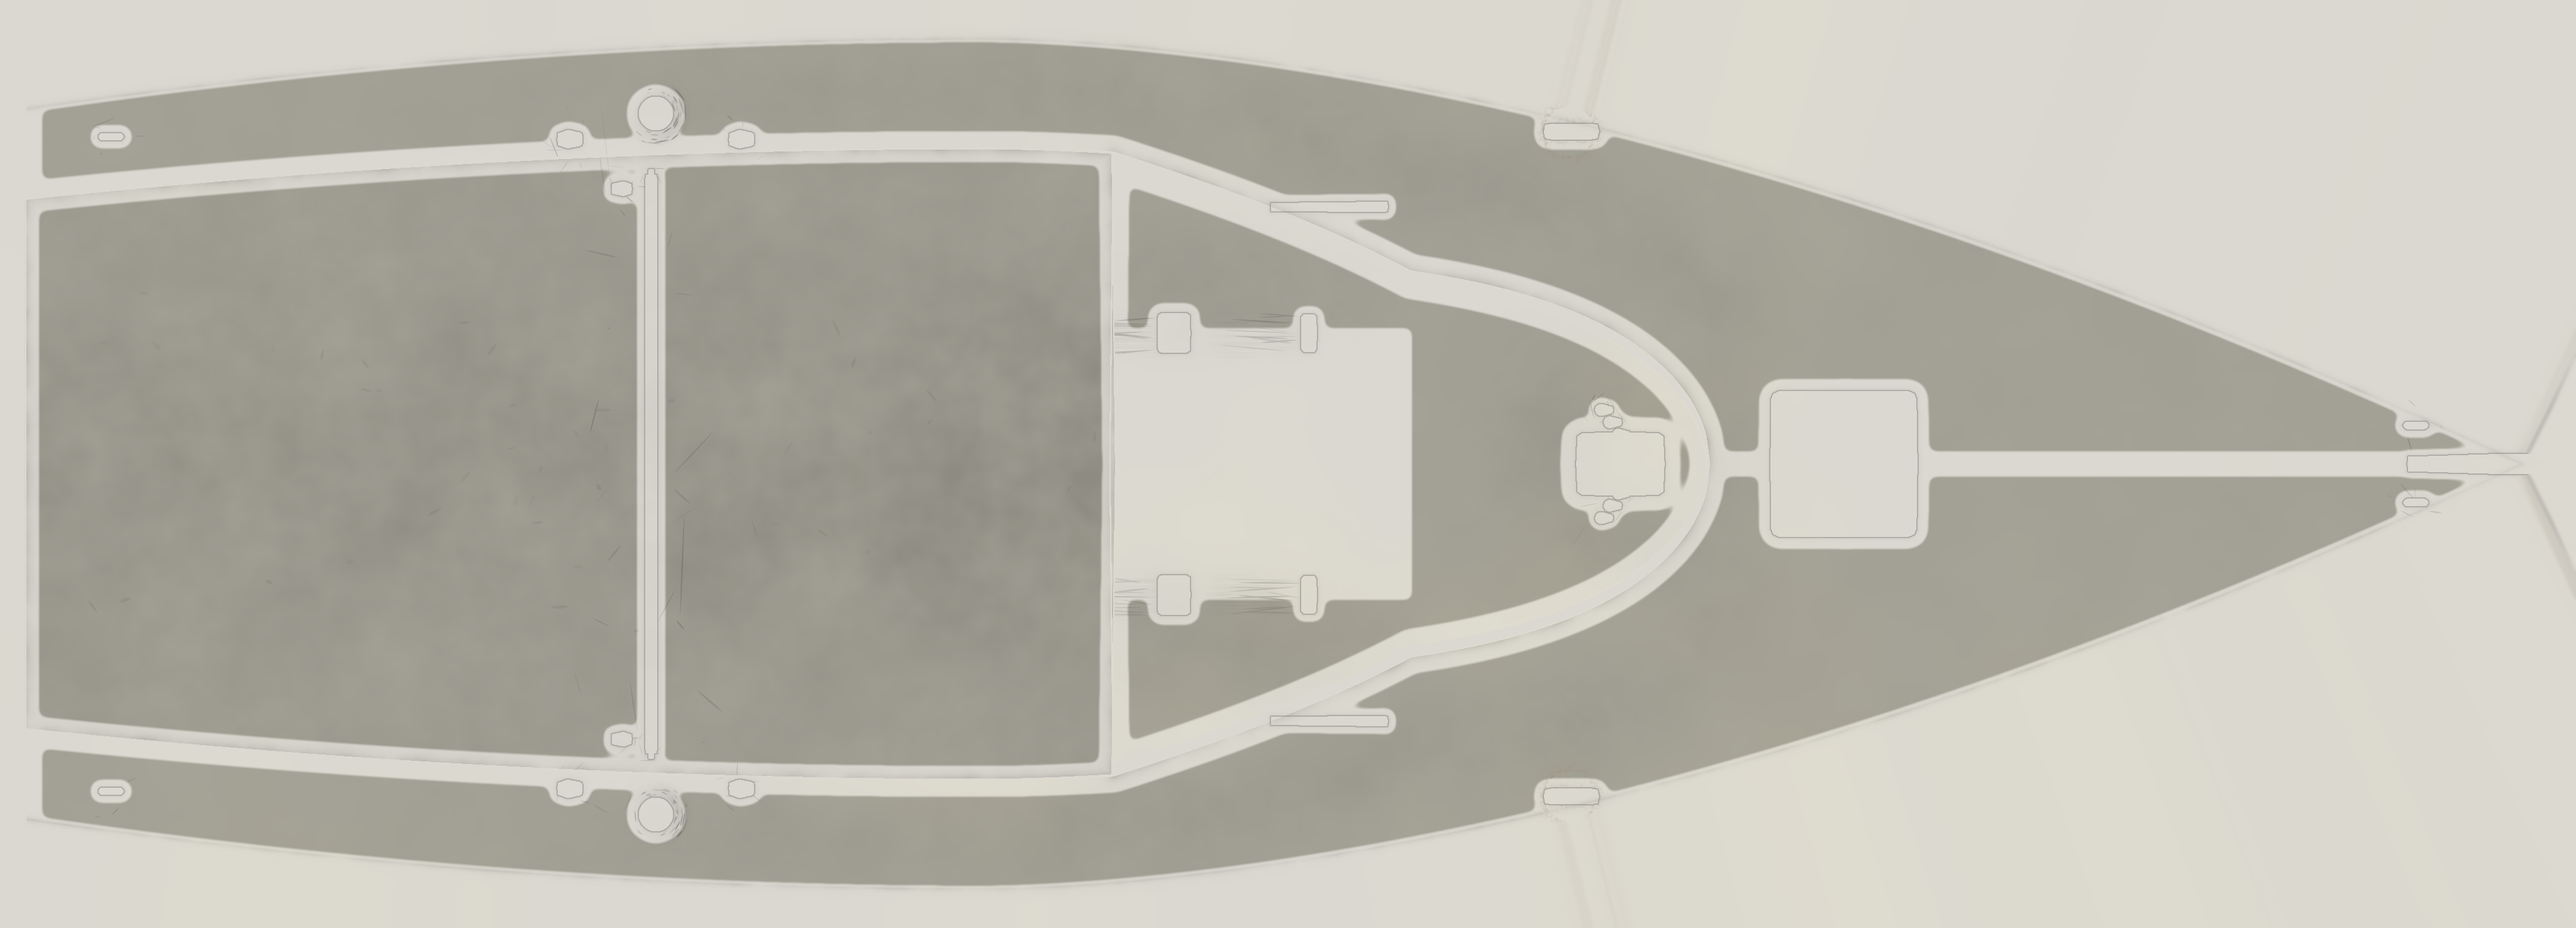
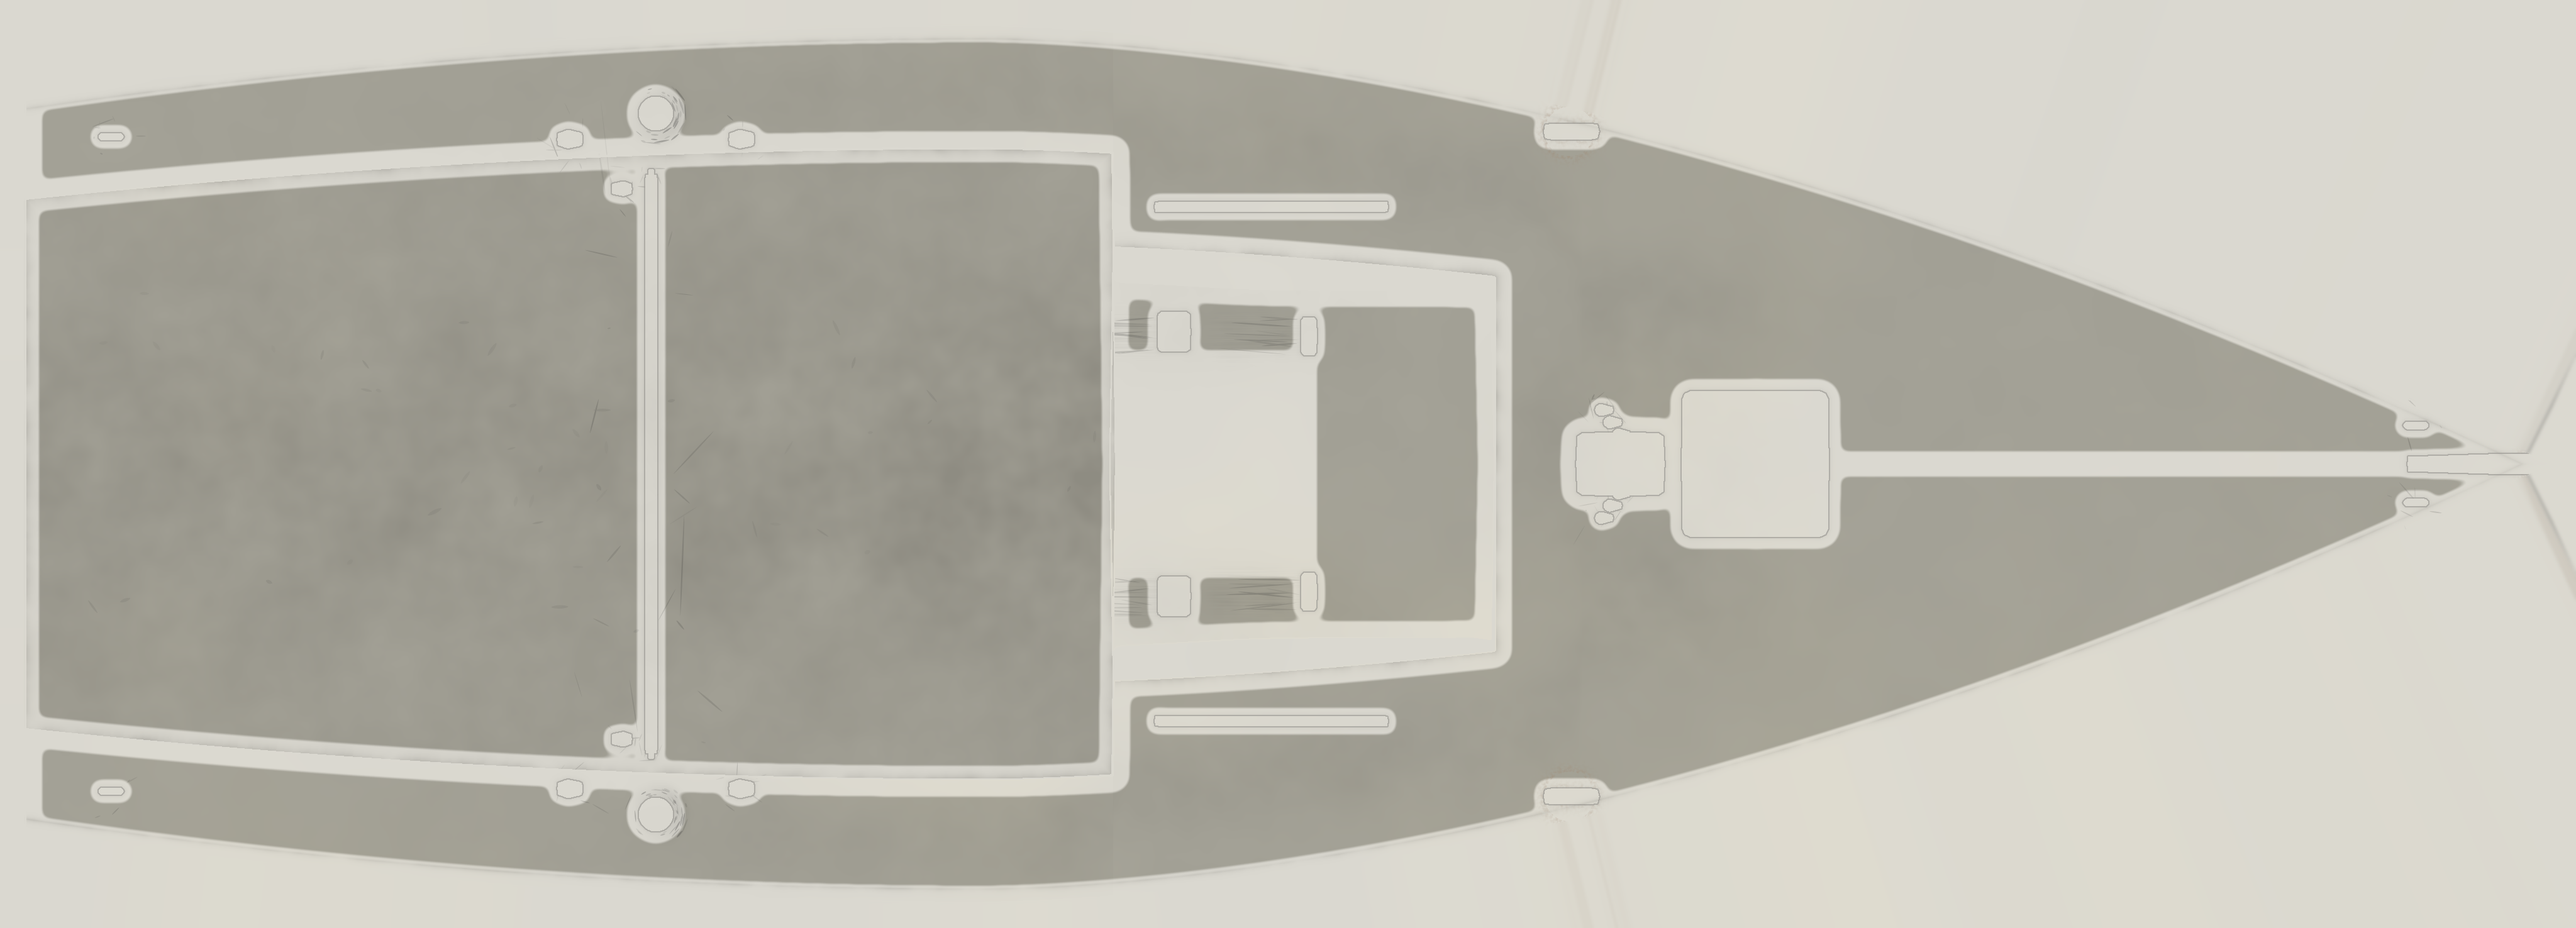
[data] Boats regenerated, navy deck sets rebaked for the coachroof

Changed region(s): [[0.4375, 0.1558, 0.75, 0.8415]]

diff --git a/tools/boatgen/README.md b/tools/boatgen/README.md
@@ -175,7 +175,7 @@ Every key is optional; defaults scale with LOA.
 | `hull.lcb_fraction` | 0.535 | LCB target when `hull.lcb_x` is absent |
 | `hull.chine_start` | 0.42 | where a hard chine begins, fraction of LOA aft of the stem |
 | `deck.cockpit` | length 0.30 LOA, width 0.62, depth 0.42 (LOA/12)^0.5, open_transom true, aft_deck 0 | cockpit well: width as a fraction of the local half-beam |
-| `deck.cabin` | length 0.28 LOA, height 0.26 (LOA/12)^0.6, width 0.58, side_slope 0.22, windows true | coachroof; `null` for a flush deck |
+| `deck.cabin` | height 0.26 (LOA/12)^0.6, meet_aft_of_mast 0.05 (LOA/12)^0.5, slope_from 0.3, width 0.58, side_rake 0.35, edge_radius 0.05 (LOA/12)^0.5, windows true | the coachroof (`docs/specs/data_format.md` §3.7.2: height aft, where the top meets the deck, where it starts to slope, base width, side rake, edge radius; `length` instead of `meet_aft_of_mast`); `null` for a flush deck |
 | `deck.nonslip_margin` | 0.05 | smooth gelcoat border around non-slip panels (m) |
 | `deck.toe_rail` | 0.035 (LOA/12)^0.4 | toe-rail size (m) |
 | `deck.lifelines` | LOA >= 9 m | stanchions, lifelines, pulpit and pushpit |
@@ -215,9 +215,16 @@ canoe-body volume (DWL mass over water density, minus the meshed appendages), an
 to Cp and LCB with a 2 x 2 Newton step. LWL and Tc are exact by construction.
 
 **Deck** (`deck.py`). A cambered surface between the sheer lines, meshed as two strips from the sheer in to the
-cockpit and cabin outline, with gelcoat margins around non-slip panels. The cockpit is a well running aft to an
-open transom; the cabin top rounds in to the centreline at its front, with leaning sides, a filleted roof edge,
-side windows, companionway and sliding hatch. The transom face, toe rail and rub strake close it off.
+cockpit and coachroof base, with gelcoat margins around non-slip panels. The cockpit is a well running aft to an
+open transom. The coachroof (`data_format.md` §3.7.2) is a height field over the deck in the style of a modern
+cruiser-racer: low, level over the companionway, then sloping down forward along a half cosine until it meets the
+deck tangentially just aft of the mast; per station a section of a fillet at the foot, a side raked inward, an edge
+radius and the cambered top, all shrinking with the height, so there is no front face; in plan its sides follow the
+sheer and round in to the centreline over the last fifth. It is meshed on the deck's stations from base to base, so
+the deck strips and it share their edge. Only the aft face is upright, with the companionway; the sliding hatch is a
+low lid draped on the top, and slim side windows run where the top is at least 0.15 m high. The transom face, toe
+rail and rub strake close it off. `Deck.surface` and `Deck.surface_z` give the walking surface (the coachroof with
+its sides, the cockpit floor, the deck) that the hardware and the rope leads sit on.
 
 **Appendages** (`appendages.py`). NACA 00xx fin and rudder lofted from root to tip; the bulb is a flattened body
 of revolution sized so its volume holds the bulb mass in lead.
@@ -240,10 +247,18 @@ base plate, deck organisers, turning blocks on padeyes, blocks with cheeks, shea
 stops, cars with a lead block and plunger, cam cleats with fairleads, horn cleats, hatches with frame, lens,
 hinges and handles, stanchions, bent-tube pulpit and pushpit, the wheel with its grip and a pedestal guard with
 an instrument pod, gudgeons or the rudder bearing cap, rigging screws. Placement: primaries beside the cockpit,
-halyard winches (wm12), clutches and organisers on the cabin top, the halyards themselves from their exits low
-on the mast through the turning blocks at the mast foot, the organisers and the clutches to flaked tails, jib
-tracks under the clew, the traveller under the boom end with its control lines and a four-part mainsheet with its
-tail, cleats at bow and quarters, lifelines at about 2 m spacing.
+halyard winches (wm12), clutches and organisers on the coachroof clear of the sliding hatch, flush hatches bent
+to the top's slope and crown (`on_surface(..., conform=True)`), the halyards themselves from their exits low on the
+mast round the sheave of their turning block at the mast foot, then along the deck and up the sloping top lying on
+it (`hardware.lead_path`: a span between two surface points follows the surface 2 mm above it, a span to a fitting
+runs straight and never dips into it), through the organiser at its sheave height and the clutch's jaws, to tails
+flaked on the top (wm12) or over the top's aft edge and down its aft face into the cockpit (wm7); jib tracks under
+the clew, outboard of the coachroof's foot, the traveller under the boom end with its control lines and a
+four-part mainsheet with its tail, cleats at bow and quarters. Lifelines as on a real boat of the size: the
+pushpit wraps the quarters to 0.9 s forward of the transom, the pulpit's aft legs stand 1.3 s aft of the stem, the
+stanchions only between them, evenly at most 2.1 m apart (OSR 3.14: 2.2 m), raked slightly outboard; the end legs
+of the pushpit and pulpit stand in the stanchions' line, and both tiers run fitting to fitting (upper through the
+tops, lower through the eyes at 0.55 of the height).
 
 **Rig fittings** (`rig.py`). Mast step plate, gooseneck bracket and pin, vang tang and boom bail, halyard sheave
 boxes, masthead crane with sheaves, wind wand, instruments on the mast front, spreader root brackets and tip
@@ -261,7 +276,11 @@ butt sits between the rudder-head cheeks on the head's bolt (`Appendages.tiller_
 thickness), and the pintle straps sit between the gudgeon arms below the transom's top. The builders tag each
 piece (`Part.add(..., tag=)`) and record what it is fitted to (`Part.attach(piece, *hosts)`); `Boat.attachment_gaps()`
 measures the gap of every attachment on the meshes as built, and `tests/test_attachments.py` holds it at 5 mm or
-less for wm7 and wm12.
+less for wm7 and wm12. The same test checks the lifelines end by end (`Boat.lifelines`: the last 2 cm of every
+segment within 1 mm of its stanchion, pushpit or pulpit; every stanchion's top and eye on its tier, with a segment
+ending on it from each side; the spacing between the pushpit, the stanchions and the pulpit 1 to 2.2 m) and the
+halyard leads (`Boat.rope_paths`: never inside the deck or coachroof, the spans along the surface within 5 mm of the
+deck mesh, through their exit plate, turning block, organiser and clutch).
 
 **Running rigging** (`running.py`). The posed previews lead the working sheet of each set headsail or flying sail
 from the clew through its lead (the jib car block, or a block on the quarter for a kite) to a winch, wrapped on
@@ -285,9 +304,9 @@ most fittings by rule). The sidecar's `model.lods` lists each file, its triangle
 
 | level | from | wm7 | wm12 | what goes |
 | --- | --- | --- | --- | --- |
-| LOD0 | 0 m | ~72 k | ~92 k | full model |
-| LOD1 | 30 m | ~26 k | ~34 k | half the segments; handles, halyards, coils, small fittings, rub strake detail |
-| LOD2 | 100 m | ~9.5 k | ~11.6 k | quarter segments, 24 hull stations; only hull, deck, appendages, spars, wires, tracks, hatches, pulpit, helm and sails |
+| LOD0 | 0 m | ~76 k | ~96 k | full model |
+| LOD1 | 30 m | ~27 k | ~36 k | half the segments; handles, halyards, coils, small fittings, rub strake detail |
+| LOD2 | 100 m | ~9.6 k | ~11.9 k | quarter segments, 24 hull stations; only hull, deck, appendages, spars, wires, tracks, hatches, pulpit, helm and sails |
 
 Budgets: LOD0 at most 100 k triangles, LOD1 40 k, LOD2 12 k (sails included: about 3.7 k for the set sails of
 wm12). `game/tests/boat_import_test.gd` checks the levels and prints the fleet cost of 16 boats per class
